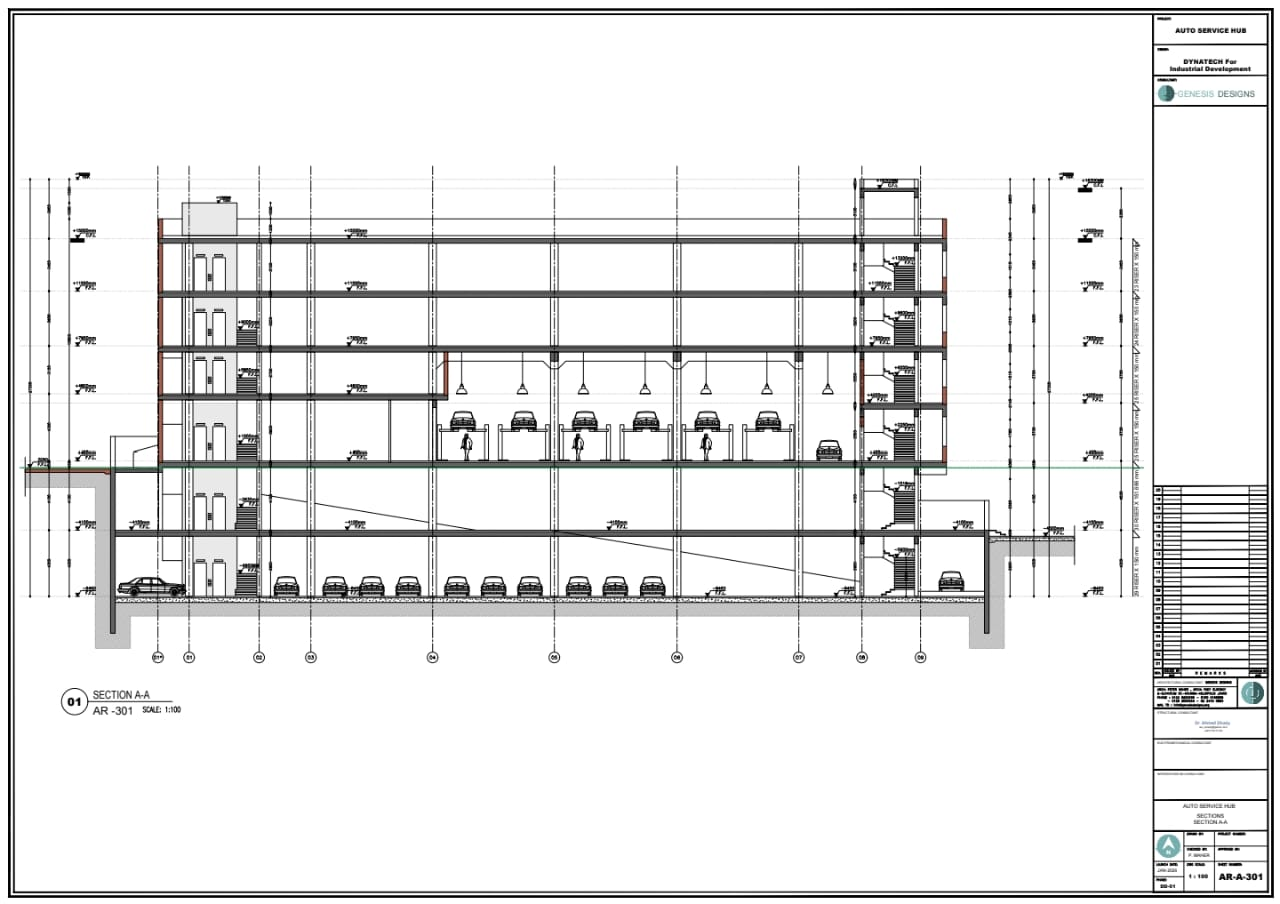
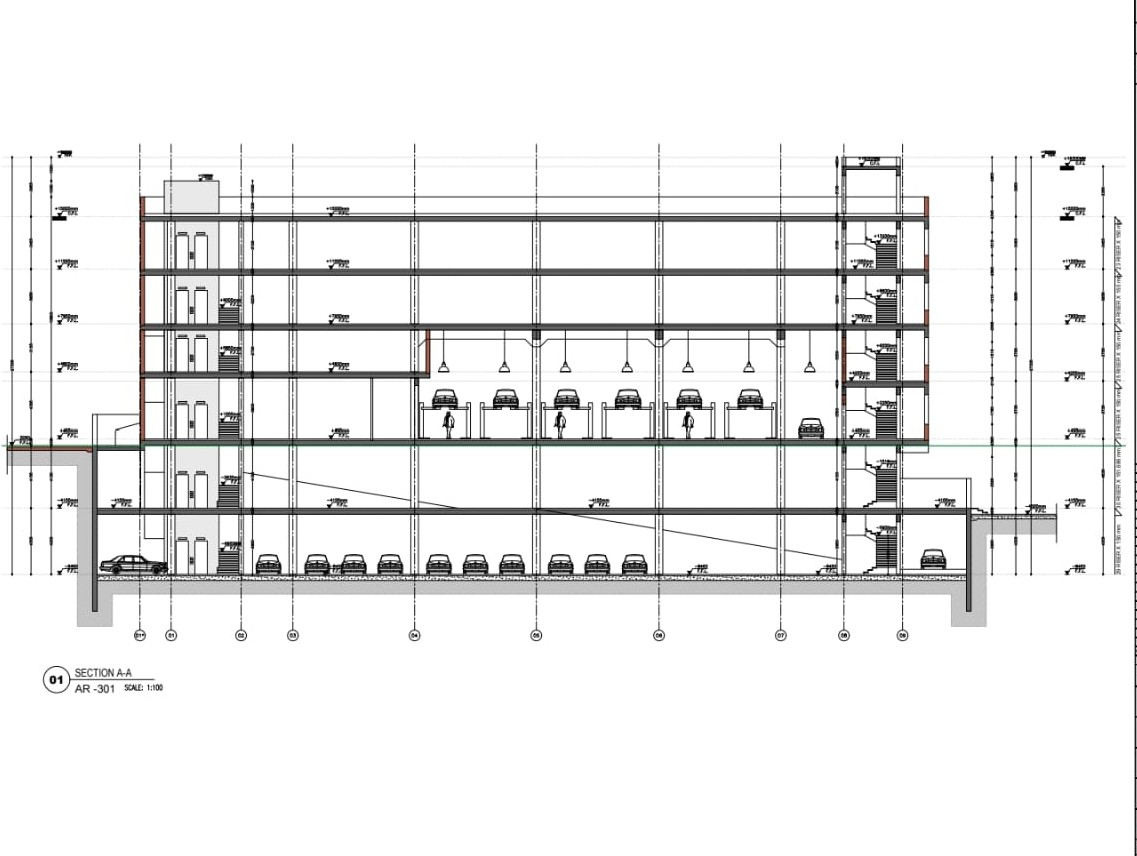
first commits 5555555

diff --git a/components/Footer.tsx b/components/Footer.tsx
@@ -35,7 +35,7 @@ export function Footer({ locale }: FooterProps) {
                 className="h-auto w-[230px] object-contain"
               />
             </Link>
-            <div className="mt-7 max-w-[280px] border-t border-white/10 pt-5 text-zinc-500">
+            <div className="mt-7 max-w-[280px] border-t border-white/10 pt-5 text-white">
               <span className="block text-[10px] font-black uppercase leading-loose tracking-[0.22em]">
                 {footerSlogan}
               </span>
@@ -44,14 +44,14 @@ export function Footer({ locale }: FooterProps) {
 
           <div>
             <h4 className="text-[10px] font-black uppercase tracking-[0.36em] text-[#0087cb]">
-              {isAr ? "تواجدنا" : "Presence"}
+              {isAr ? "المواقع" : "Location"}
             </h4>
             <div className="mt-5 grid gap-5 sm:grid-cols-2">
               <div className="space-y-3">
                 <span className="block min-h-8 text-[10px] font-black uppercase leading-relaxed tracking-[0.18em] text-white">
                   {isAr ? "المقر الرئيسي في CFC" : "CFC Main Office"}
                 </span>
-                <p className="max-w-xs text-xs leading-relaxed text-zinc-400">
+                <p className="max-w-xs text-xs leading-relaxed text-white">
                   {isAr ? siteContact.locations.cfcOfficeAr : siteContact.locations.cfcOffice}
                 </p>
               </div>
@@ -60,7 +60,7 @@ export function Footer({ locale }: FooterProps) {
                 <span className="block min-h-8 text-[10px] font-black uppercase leading-relaxed tracking-[0.18em] text-white">
                   {isAr ? "مشروع مركز السيارات" : "Auto Hub Project"}
                 </span>
-                <p className="max-w-xs text-xs leading-relaxed text-zinc-400">
+                <p className="max-w-xs text-xs leading-relaxed text-white">
                   {isAr ? siteContact.locations.autoHubAr : siteContact.locations.autoHub}
                 </p>
               </div>
@@ -76,7 +76,7 @@ export function Footer({ locale }: FooterProps) {
                 <Link
                   key={item.path}
                   href={localizedPath(locale, item.path)}
-                  className="text-xs font-black uppercase tracking-[0.12em] text-zinc-400 transition hover:text-white"
+                  className="text-xs font-black uppercase tracking-[0.12em] text-white transition hover:text-[#43becc]"
                 >
                   {isAr ? item.labelAr : item.label}
                 </Link>
@@ -98,7 +98,7 @@ export function Footer({ locale }: FooterProps) {
               </a>
               <a
                 href={`mailto:${siteContact.email}`}
-                className="flex items-center gap-3 text-xs font-semibold text-zinc-400 transition hover:text-white"
+                className="flex items-center gap-3 text-xs font-semibold text-white transition hover:text-[#43becc]"
               >
                 <Mail size={16} className="text-[#43becc]" />
                 {siteContact.email}
@@ -107,7 +107,7 @@ export function Footer({ locale }: FooterProps) {
           </div>
         </div>
 
-        <div className="mt-9 border-t border-white/10 pt-5 text-[9px] font-bold uppercase tracking-[0.34em] text-zinc-600">
+        <div className="mt-9 border-t border-white/10 pt-5 text-[9px] font-bold uppercase tracking-[0.34em] text-white">
           &copy; {currentYear} DYNATECH CORP - {isAr ? "جميع الحقوق محفوظة" : "ALL RIGHTS RESERVED"}
         </div>
       </div>

diff --git a/components/auto-hub/AutoHubPage.tsx b/components/auto-hub/AutoHubPage.tsx
@@ -292,14 +292,14 @@ export default function AutoHubPage({ locale }: Props) {
             <span className="mt-7 block h-px w-20 bg-[#0087cb]" />
           </motion.div>
 
-          <motion.div {...reveal} viewport={{ once: true, amount: 0.22 }} transition={{ duration: 0.7, delay: 0.08 }} className="relative aspect-[4/3] overflow-hidden border border-white/15 bg-white shadow-[0_30px_80px_rgba(0,0,0,0.32)]">
+          <motion.div {...reveal} viewport={{ once: true, amount: 0.22 }} transition={{ duration: 0.7, delay: 0.08 }} className="relative aspect-[16/10] overflow-hidden border border-white/15 bg-white shadow-[0_30px_80px_rgba(0,0,0,0.32)] lg:left-8 xl:left-12">
             <Image
-              src="/autohub/The%20Auto%20Hub/IMG-20260623-WA0027.jpg"
+              src="/autohub/The%20Auto%20Hub/IMG-20260623-WA0021.jpg"
               alt={isAr ? "تصميم ثلاثي الأبعاد واضح لمبنى مشروع مركز السيارات" : "Clear 3D design of the Auto Hub building"}
               fill
               priority
               sizes="(min-width: 1024px) 58vw, 100vw"
-              className="object-cover object-top"
+              className="object-cover object-center"
             />
           </motion.div>
         </div>
@@ -315,19 +315,21 @@ export default function AutoHubPage({ locale }: Props) {
               {copy.introduction}
             </p>
           </motion.div>
-          <motion.div {...reveal} viewport={{ once: true, amount: 0.15 }} transition={{ duration: 0.65, delay: 0.06 }} className="relative aspect-[4/3] overflow-hidden border border-white/15 bg-white shadow-[0_30px_80px_rgba(0,0,0,0.28)]">
-            <motion.div
-              className="absolute -inset-y-16 inset-x-0"
-              style={{ y: reduceMotion ? 0 : introductionImageY }}
-            >
-              <Image
-                src="/autohub/The%20Auto%20Hub/IMG-20260623-WA0017.jpg"
-                alt={isAr ? "واجهة مبنى مشروع مركز السيارات" : "Auto Hub building exterior"}
-                fill
-                sizes="(min-width: 1024px) 46vw, 100vw"
-                className="object-cover object-top"
-              />
-            </motion.div>
+          <motion.div
+            initial={{ opacity: 0 }}
+            whileInView={{ opacity: 1 }}
+            viewport={{ once: true, amount: 0.15 }}
+            transition={{ duration: 0.65, delay: 0.06 }}
+            style={{ y: reduceMotion ? 0 : introductionImageY }}
+            className="relative aspect-[16/10] overflow-hidden border border-white/15 bg-[#080d20] shadow-[0_30px_80px_rgba(0,0,0,0.28)]"
+          >
+            <Image
+              src="/autohub/The%20Auto%20Hub/IMG-20260623-WA0028.jpg"
+              alt={isAr ? "واجهة مبنى مشروع مركز السيارات" : "Auto Hub building exterior"}
+              fill
+              sizes="(min-width: 1024px) 46vw, 100vw"
+              className="object-contain object-center"
+            />
           </motion.div>
         </div>
       </section>

diff --git a/components/about/TimelineLayer.tsx b/components/about/TimelineLayer.tsx
@@ -24,7 +24,7 @@ export default function TimelineLayer({ x, opacity, scale, copy, items, isAr = f
         <div className={`min-w-[200px] md:min-w-[280px] sticky left-0 ${isAr ? 'text-right' : ''}`}>
           <h2 className={`text-white text-5xl md:text-8xl font-black italic tracking-tighter leading-none ${isAr ? '[direction:rtl]' : ''}`}>
             {copy.titleLine1}<br/>
-            {copy.titleHighlight && <span className="text-[#0087cb]">{copy.titleHighlight}</span>}
+            {copy.titleHighlight && <span className="text-white">{copy.titleHighlight}</span>}
           </h2>
         </div>
         
@@ -32,7 +32,7 @@ export default function TimelineLayer({ x, opacity, scale, copy, items, isAr = f
         {items.map((item, i) => (
           <div key={i} className={`min-w-[220px] md:min-w-[320px] relative pt-16 ${isAr ? 'text-right' : ''}`}>
             {/* Background Year */}
-            <div className={`text-[100px] md:text-[140px] font-black text-white/[0.03] absolute -top-10 ${isAr ? '-right-6' : '-left-6'} leading-none select-none`}>
+            <div className={`text-[100px] md:text-[140px] font-black text-white/[0.08] absolute -top-10 ${isAr ? '-right-6' : '-left-6'} leading-none select-none`}>
               {item.year}
             </div>
             
@@ -43,7 +43,7 @@ export default function TimelineLayer({ x, opacity, scale, copy, items, isAr = f
               <p 
                 dir={isAr ? "rtl" : "ltr"}
                 style={{ unicodeBidi: "plaintext" }}
-                className="text-zinc-400 text-xs md:text-sm leading-relaxed max-w-[280px]"
+                className="max-w-[280px] text-xs leading-relaxed text-white md:text-sm"
               >
                 {item.desc}
               </p>

diff --git a/components/partners/TechnologyPartnersPage.tsx b/components/partners/TechnologyPartnersPage.tsx
@@ -136,11 +136,20 @@ export default function TechnologyPartnersPage({ content, locale }: Props) {
             <div className="relative aspect-[16/9] overflow-hidden border border-white/20 bg-[#080d20]">
               <Image
                 src="/fft page Videos/main.jpeg"
+                alt=""
+                fill
+                aria-hidden="true"
+                sizes="(min-width: 1024px) 40vw, 50vw"
+                className="scale-110 object-cover object-center opacity-35 blur-sm"
+              />
+              <div className="absolute inset-0 bg-[#080d20]/35" />
+              <Image
+                src="/fft page Videos/main.jpeg"
                 alt={isAr ? "توقيع اتفاقية الشراكة مع FFT" : "FFT partnership agreement signing"}
                 fill
                 priority
                 sizes="(min-width: 1024px) 40vw, 50vw"
-                className="object-cover object-bottom"
+                className="scale-[1.35] object-contain object-center"
               />
             </div>
             <div className="relative aspect-[16/9] overflow-hidden border border-white/20 bg-[#080d20]">

diff --git a/components/home/HeroSection.tsx b/components/home/HeroSection.tsx
@@ -219,7 +219,7 @@ export function HeroSection({
 
           <motion.div
             variants={heroItem}
-            className="mt-auto pt-4 text-[9px] font-black uppercase tracking-[0.34em] text-white/58 sm:mt-4 sm:pt-0 sm:text-[10px] md:mt-5 md:text-[11px]"
+            className="mt-auto pt-4 text-[9px] font-black uppercase tracking-[0.34em] text-white sm:mt-4 sm:pt-0 sm:text-[10px] md:mt-5 md:text-[11px]"
           >
             {strategicPartnersLabel}
           </motion.div>

diff --git a/app/globals.css b/app/globals.css
@@ -129,6 +129,10 @@
     overflow-x: clip;
   }
 
+  p {
+    text-align: justify;
+  }
+
   html[dir="rtl"] body {
     font-family: var(--font-cairo), sans-serif;
   }
